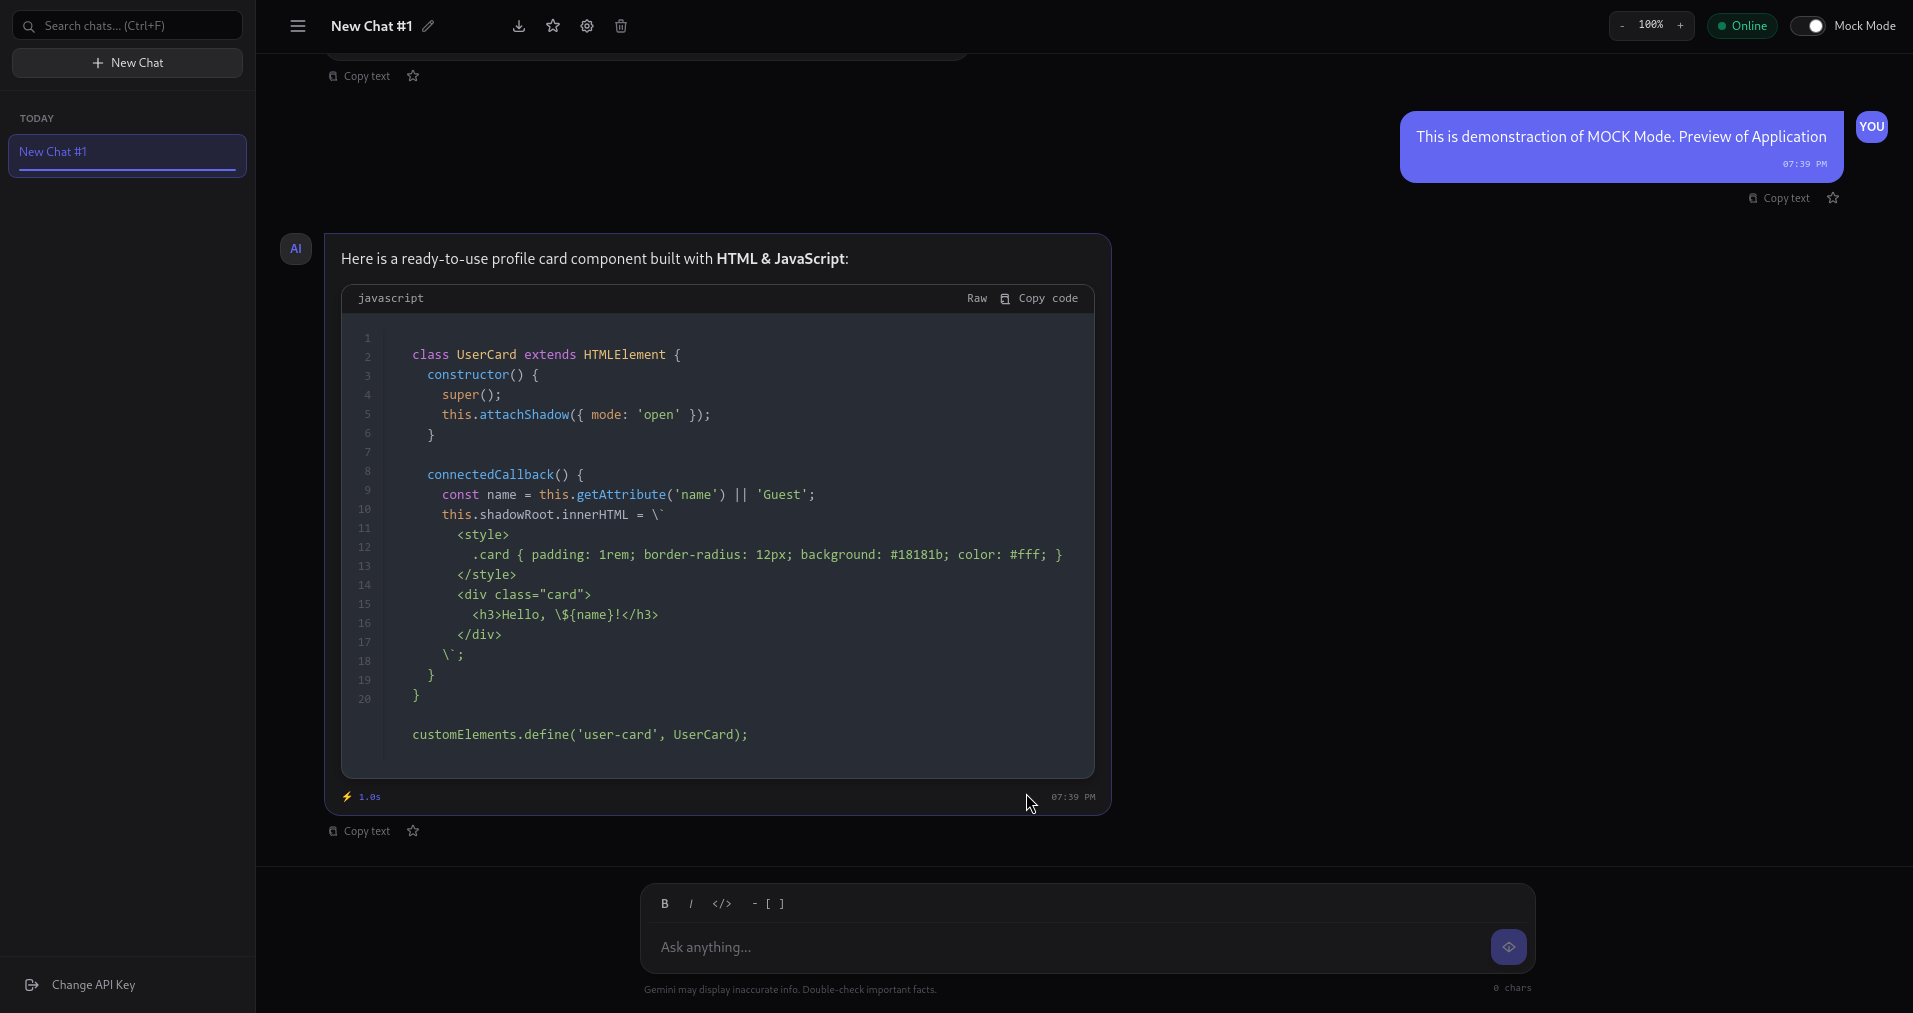
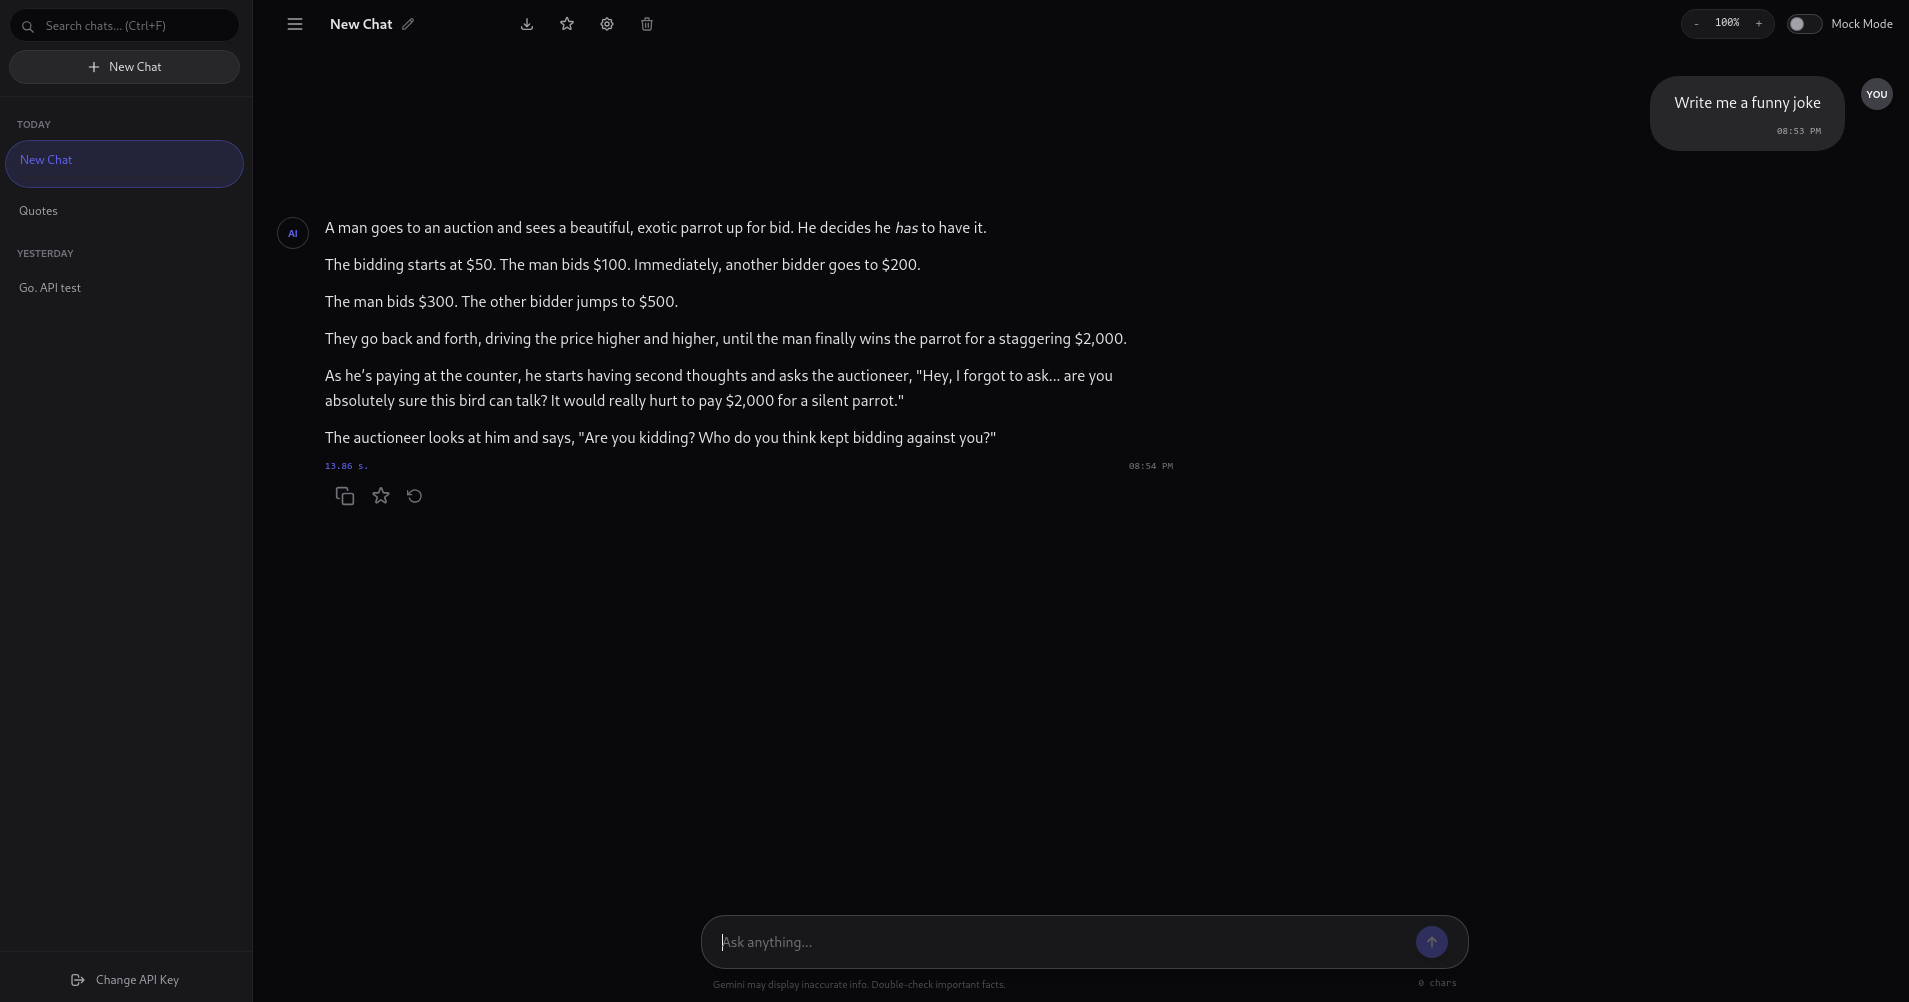
chore: release information update and preview (#12)

diff --git a/frontend/index.html b/frontend/index.html
@@ -57,7 +57,7 @@
             <div class="font-bold tracking-wider text-xs text-zinc-300 uppercase select-none" data-i18n="unofficialClient">UNOFFICIAL CLIENT</div>
             <div class="text-[11px] text-zinc-400 select-none" data-i18n="createdForEnthusiasts">Created by enthusiast for enthusiasts</div>
             <div class="text-[11px] font-mono pt-1">
-                <a href="https://github.com/vortifyne/gemini-client/releases" class="text-indigo-400 hover:underline">v0.0.1</a>
+                <a href="https://github.com/vortifyne/gemini-client/releases" class="text-indigo-400 hover:underline">v0.1.0</a>
             </div>
             <div class="flex items-center justify-center gap-4 pt-1 text-zinc-400">
                 <a href="https://github.com/vortifyne" class="flex items-center gap-1 hover:text-white transition-colors text-[11px]" title="GitHub">

diff --git a/docs/README.md b/docs/README.md
@@ -1,5 +1,5 @@
 <div align="center">
-  <img src="../build/appicon.png" width="96" height="96" alt="Gemini Desktop Logo">
+  <img src="../assets/icon.png" width="96" height="96" alt="Gemini Desktop Logo">
 
 
 # Gemini Desktop
@@ -29,6 +29,7 @@ Built with Go, Wails v2, SQLite, and Vanilla JS.
 
 <p align="center">
   <img src="../assets/auth.png" width="48%" alt="Auth Screen" />
+  <img src="../assets/main.png" width="48%" alt="Main Screen" />
   <img src="../assets/chat.png" width="48%" alt="Chat Interface" />
 </p>
 
